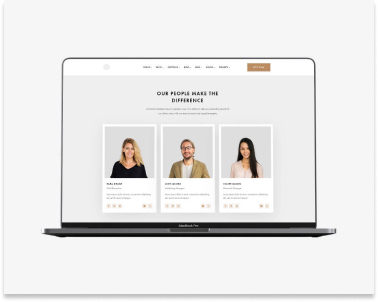
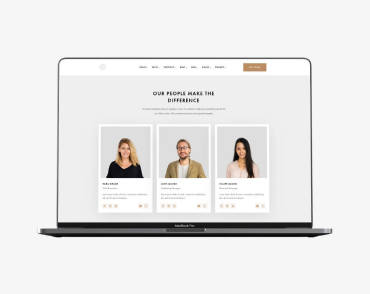
готово 2-3 ДЗ
на проверку

diff --git a/css/styles.css b/css/styles.css
@@ -13,7 +13,7 @@ body {
     color: black;
     ;
 }
-.img{
+img{
     display: block;
 }
 .container{
@@ -47,13 +47,19 @@ button {
     cursor: pointer;
   } 
 
+  .menu-link.current{
+      color: #2196F3;
+  }
+
 /* Header */
 
 .page-header{
     padding-top: 25px;
     padding-bottom: 25px;
+    background-color: #FFFFFF;
+    border-bottom: 1px solid #ececec;
 }
-
+header{display: block;}
 .logo{
 font-family: 'Raleway', sans-serif;
 font-weight: 700;
@@ -61,6 +67,7 @@ font-size: 26px;
 line-height: 1.19;
 color: var(--accent-color);
 margin-right: 93px;
+display: inline-block;
 }
 
 .navigation{
@@ -155,7 +162,10 @@ color: #757575;
         letter-spacing: 0.06em;
         background-color: #2196F3;
         cursor: pointer;
-
+        padding: 10px 32px 10px 32px;
+        display: inline-block;
+        border-radius: 4px;
+        border: none;
         color: #FFFFFF;
     }
     .modal-btn:hover,
@@ -165,10 +175,13 @@ color: #757575;
     }
 
     /* Our features */
+    .our-features{
+        padding-top: 94px;
+    }
+
     .our-features-list{
         display: flex;
         justify-content: space-between;
-        padding-top: 94px;
     }
     
 .features-title{
@@ -213,19 +226,17 @@ color: #757575;
 .our-team-section{
     padding-top: 94px;
     padding-bottom: 94px;
+    background: #F5F4FA;
 }
 .our-team{
     display: flex;
     flex-wrap: wrap;
 }
 
-.our-teams-person-info{
-    border: #757575;
-}
-
 .our-team-item:not(:last-child){
     margin-right:30px;
 }
+
 
 .our-team-title{
     font-weight: 700;
@@ -235,13 +246,14 @@ color: #757575;
     letter-spacing: 0.03em;
     margin-bottom: 50px;
 }
+
 .our-teams-person-title{
     font-weight: 500;
+    max-width: 250px;
     font-size: 16px;
     line-height: 1.19;
     text-align: center;
     letter-spacing: 0.03em;
-    margin-top: 30px;
     margin-bottom: 10px;
 }
 
@@ -252,7 +264,16 @@ color: #757575;
     text-align: center;
     letter-spacing: 0.03em;
     color: #757575;
+}
+
+.person-title-desсription-border{
+    padding-top: 30px;
+    border-radius: 0px 0px 4px 4px;
+    background: #FFFFFF;
     padding-bottom: 30px;
+    box-shadow: 0px 1px 3px rgba(0, 0, 0, 0.12),
+                0px 1px 1px rgba(0, 0, 0, 0.14), 
+                0px 2px 1px rgba(0, 0, 0, 0.2);
 }
 
  /* Footer */
@@ -264,8 +285,17 @@ color: #757575;
 .link-logo-white{
     color: white;
 }
+    .logo-footer{
+    font-family: 'Raleway', sans-serif;
+    font-weight: 700;
+    font-size: 26px;
+    line-height: 1.19;
+    color: var(--accent-color);
+    display: inline-block;
+}
 .contacts{
     font-style: normal;
+    margin-top: 20px;
 }
 .contacts-adress{
     font-weight: 400;
@@ -282,7 +312,12 @@ color: #757575;
 
     letter-spacing: 0.03em;
     color:#ffffff60;
+    }
+
+.contacts-item:not(:last-child){
+    margin: 0px 0px 9px 0px;
 }
+
 .contacts-email{
     font-weight: 400;
     font-size: 14px;
@@ -293,6 +328,10 @@ color: #757575;
 }
 
 /* ====== Portfolio ==========*/
+.portfolio-section{
+    padding-top: 94px;
+    padding-bottom: 94px;
+}
 .portfolio-list{
     display: flex;
     justify-content: center;
@@ -301,13 +340,17 @@ color: #757575;
 
 .portfolio-item{
     padding: 6px 22px 6px 22px;
+    background-color: #F5F4FA;
+
 }
-.portfolio-link{
+.portfolio-btn{
     font-weight: 500;
     font-size: 16px;
     line-height: 1.63;
     text-align: center;
     letter-spacing: 0.03em;
+    border: transparent;
+    background-color: transparent;
 
     color: #212121;
 }
@@ -326,6 +369,8 @@ color: #757575;
     line-height: 2;
     letter-spacing: 0.06em;
     color: #212121;
+    margin: 20px 24px 4px 24px; 
+
 }
 .projects-list-item-title-description{
     font-weight: 400;
@@ -333,6 +378,7 @@ color: #757575;
     line-height: 1,88;
     letter-spacing: 0.03em;
     color: #757575;
+    margin: 0px 24px 20px 24px;
 }
 .projects-list-item {
     flex-basis: calc((100% - 90px)) / 3;

diff --git a/index.html b/index.html
@@ -19,7 +19,7 @@
             <a class="logo link" href="Web">Web<span class="link-logo-black">Studio</span></a>
                 <ul class="menu-list list">
                 <li class="menu-item">
-                <a class="menu-link link" href="">Студия</a>
+                <a class="menu-link link current" href="">Студия</a>
                 </li>
                 <li class="menu-item">
                 <a class="menu-link link" href="./portfolio.html">Портфолио</a>
@@ -90,25 +90,31 @@
             <ul class="our-team list">
                 <li class="our-team-item">
                     <img class="our-team-img" src="./images/our_team/img1.jpg" alt="Игорь Демьяненко" width="270" height="260"/>
-                    <div class="our-teams-person-info">
+                    <div class="person-title-desсription-border">
                     <h3 class="our-teams-person-title">Игорь Демьяненко</h3>
                     <p class="our-teams-person-desсription">Product Designer</p>
                     </div>
                 </li>
                 <li class="our-team-item">
                     <img class="our-team-img" src="./images/our_team/img2.jpg" alt="Ольга Репина" width="270" height="260"/>
+                    <div class="person-title-desсription-border">
                     <h3 class="our-teams-person-title">Ольга Репина</h3>
                     <p class="our-teams-person-desсription">Frontend Developer</p>
+                </div>
                 </li>
                 <li class="our-team-item">
                     <img class="our-team-img" src="./images/our_team/img3.jpg" alt="Николай Тарасов" width="270" height="260"/>
+                    <div class="person-title-desсription-border">
                     <h3 class="our-teams-person-title">Николай Тарасов</h3>
                     <p class="our-teams-person-desсription">Marketing</p>
+                </div>
                 </li>
                 <li class="our-team-item">
                     <img class="our-team-img" src="./images/our_team/img4.jpg" alt="Михаил Ермаков" width="270" height="260"/>
+                    <div class="person-title-desсription-border">
                     <h3 class="our-teams-person-title">Михаил Ермаков</h3>
                     <p class="our-teams-person-desсription">UI Designer</p>
+                    </div>
                 </li>
             </ul>
         </div>
@@ -116,7 +122,7 @@
     </main>
     <footer class="footer-section">
         <div class="footer-section-div container">
-        <a class="logo link" href="Web">Web<span class="link-logo-white">Studio</span></a>
+        <a class="logo-footer link" href="Web">Web<span class="link-logo-white">Studio</span></a>
         <address class="contacts">
         <ul class="contacts-list link list">
             <li class="contacts-item">

diff --git a/portfolio.html b/portfolio.html
@@ -22,7 +22,7 @@
                 <a class="menu-link link" href="./index.html">Студия</a>
                 </li>
                 <li class="menu-item">
-                <a class="menu-link link" href="">Портфолио</a>
+                <a class="menu-link link current" href="">Портфолио</a>
                 </li>
                 <li class="menu-item">
                 <a class="menu-link link" href="">Контакты</a>
@@ -41,26 +41,28 @@
             <div class="portfolio-section-div container">
                 <ul class="portfolio-list list">
                 <li class="portfolio-item">
-                <a class="portfolio-link link" href="">Все</a>
+                <button class="portfolio-btn link" type="button">Все</button>
                 </li>
                 <li class="portfolio-item">
-                <a class="portfolio-link link" href="">Веб сайты</a>
+                 <button class="portfolio-btn link" type="button">Веб сайты</button>
                 </li>
                 <li class="portfolio-item">
-                <a class="portfolio-link link" href="">Приложения</a>
+                 <button class="portfolio-btn link" type="button">Приложения</button>
                 </li>
                 <li class="portfolio-item">
-                <a class="portfolio-link link" href="">Дизайн</a>
+                 <button class="portfolio-btn link" type="button">Дизайн</button>
                 </li>
                 <li class="portfolio-item">
-                <a class="portfolio-link link" href="">Маркетинг</a>
+                 <button class="portfolio-btn link" type="button">Маркетинг</button>
                 </li>
                 </ul>
-                
+
                 <ul class="projects-list list link">
                     <li class="projects-list-item">
                         <img src="./images/portfolio/img1.jpg" 
-                        alt="Три фотографии" width: 370px; height: 294px;>
+                        alt="Три фотографии" 
+                        width: 370px;
+                        height: 294px;>
                         <h2 class="projects-list-item-title">Технокряк</h2>
                         <p class="projects-list-item-title-description">Веб-сайт</p>
                     </li>
@@ -134,7 +136,7 @@
     </main>
     <footer class="footer-section">
         <div class="footer-section-div container">
-        <a class="logo link" href="Web">Web<span class="link-logo-white">Studio</span></a>
+        <a class="logo-footer link" href="Web">Web<span class="link-logo-white">Studio</span></a>
         <address class="contacts">
         <ul class="contacts-list link list">
             <li class="contacts-item">
